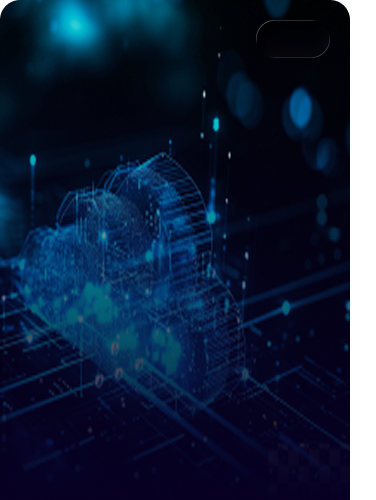
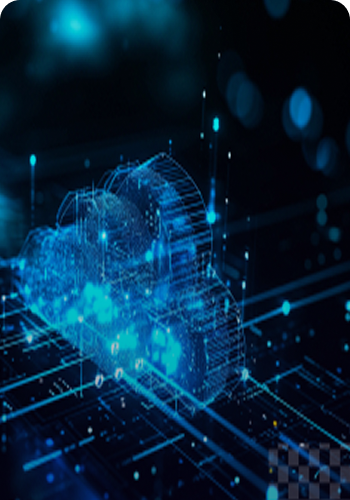
sections

diff --git a/src/app/home/_components/tutorial-section.tsx b/src/app/home/_components/tutorial-section.tsx
@@ -20,7 +20,7 @@ const tutorials = [
     title: "Getting Started With Sense PC",
     duration: "5:30",
     description: "Learn the basics of setting up your Sense PC environment",
-    image: "/gettingStartedWithSensePc.png", // Place your images in public/images/
+    image: "/gettingStartedWithSensePc.png",
     videoUrl: "/videos/getting-started.mp4",
     youtubeUrl: "https://youtube.com/watch?v=example1",
   },
@@ -60,7 +60,6 @@ const TutorialSection = () => {
   const [canScrollLeft, setCanScrollLeft] = useState(false);
   const [canScrollRight, setCanScrollRight] = useState(false);
   const [isDark, setIsDark] = useState(() => {
-    // Initialize with the current theme on mount
     if (typeof window !== 'undefined') {
       return document.documentElement.classList.contains('dark');
     }
@@ -69,16 +68,13 @@ const TutorialSection = () => {
   const [touchStart, setTouchStart] = useState(0);
   const [touchEnd, setTouchEnd] = useState(0);
 
-  // Detect theme changes
   React.useEffect(() => {
     const checkTheme = () => {
       setIsDark(document.documentElement.classList.contains('dark'));
     };
 
-    // Double-check on mount
     checkTheme();
 
-    // Watch for theme changes
     const observer = new MutationObserver(checkTheme);
     observer.observe(document.documentElement, {
       attributes: true,
@@ -121,7 +117,6 @@ const TutorialSection = () => {
     }
   };
 
-  // Handle touch swipe for mobile
   const handleTouchStart = (e: React.TouchEvent) => {
     setTouchStart(e.targetTouches[0].clientX);
   };
@@ -145,7 +140,6 @@ const TutorialSection = () => {
       setCurrentIndex(currentIndex - 1);
     }
 
-    // Reset
     setTouchStart(0);
     setTouchEnd(0);
   };
@@ -192,10 +186,10 @@ const TutorialSection = () => {
                     className="relative z-10"
                     style={{
                       filter: canScrollLeft
-                        ? 'none' // Enabled: keep white arrow on gradient
-                        : isDark
-                          ? 'none' // Dark mode disabled: keep white arrow on black bg
-                          : 'brightness(0)' // Light mode disabled: make arrow black on white bg
+                          ? 'none'
+                          : isDark
+                              ? 'none'
+                              : 'brightness(0)'
                     }}
                 />
               </button>
@@ -219,10 +213,10 @@ const TutorialSection = () => {
                     className="relative z-10"
                     style={{
                       filter: canScrollRight
-                        ? 'none' // Enabled: keep white arrow on gradient
-                        : isDark
-                          ? 'none' // Dark mode disabled: keep white arrow on black bg
-                          : 'brightness(0)' // Light mode disabled: make arrow black on white bg
+                          ? 'none'
+                          : isDark
+                              ? 'none'
+                              : 'brightness(0)'
                     }}
                 />
               </button>
@@ -376,13 +370,14 @@ const TutorialSection = () => {
                   <div className="absolute inset-0 bg-gradient-to-t from-black/80 via-black/20 to-transparent dark:bg-none" />
 
                   <div
-                      className="absolute top-2 right-2 text-white text-xs font-medium shadow-lg inline-flex items-center justify-center"
+                      className="absolute top-3 right-3 text-white text-xs font-medium shadow-lg inline-flex items-center justify-center"
                       style={{
                         background: 'rgba(0, 0, 0, 0.2)',
                         backdropFilter: 'blur(10px)',
                         borderRadius: '9999px',
-                        padding: '0.375rem 0.75rem',
-                        minWidth: 'fit-content'
+                        padding: '0.25rem 0.625rem',
+                        minWidth: '52px',
+                        width: '52px'
                       }}>
                     <span style={{
                       position: 'absolute',
@@ -406,7 +401,7 @@ const TutorialSection = () => {
                       borderBottomRightRadius: '9999px',
                       pointerEvents: 'none'
                     }}/>
-                    <span style={{position: 'relative', zIndex: 1, whiteSpace: 'nowrap'}}>{tutorial.duration}</span>
+                    <span style={{position: 'relative', zIndex: 1, whiteSpace: 'nowrap', fontSize: '0.75rem'}}>{tutorial.duration}</span>
                   </div>
                   <div className="absolute inset-0 flex items-center justify-center">
                     <div
@@ -417,7 +412,6 @@ const TutorialSection = () => {
                           alt="play-button"
                           width={22}
                           height={25}
-                          // className="invert"
                       />
                     </div>
                   </div>
@@ -462,8 +456,6 @@ const TutorialSection = () => {
               )}
             </DialogContent>
           </Dialog>
-
-          {/* Background gradient effects for the section */}
         </div>
       </section>
   );
